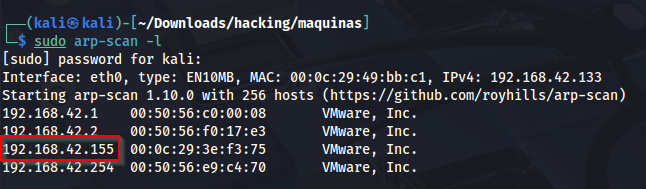
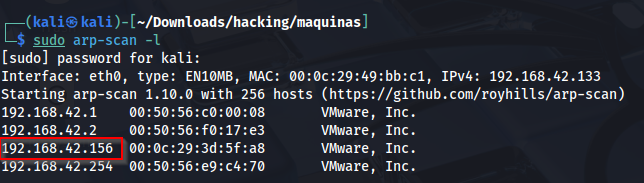
Mux 1

Changed region(s): [[0.0, 0.1639, 0.9938, 0.9563], [0.0, 0.082, 0.559, 0.1639]]

diff --git a/Mux.md b/Mux.md
@@ -1,0 +1,38 @@
+# Máquina Mux
+
+### Reconocimiento de la Ip de la máquina víctima
+
+![alt text](image.png)
+
+### Puertos abiertos
+
+sudo nmap -sS --min-rate 6000 -p- --open -vvv -Pn 192.168.42.156
+
+![alt text](image-1.png)
+
+
+### Servicios y versiones 
+
+sudo nmap -sV --script vuln -p80,512,513,514 --min-rate 6000 -vvv 192.168.42.155
+
+
+
+### Fuzzing web
+
+gobuster dir -t 200 -u http://192.168.42.155/ -w /usr/share/wordlists/dirbuster/directory-list-2.3-medium.txt -x php,txt,bak,sh,py,js,html,db,png,jpg,git -b 403,404 2>/dev/null
+
+
+### Explotación
+
+
+
+### Escalar privilegios
+
+
+
+### user.txt
+
+
+
+### root.txt
+
